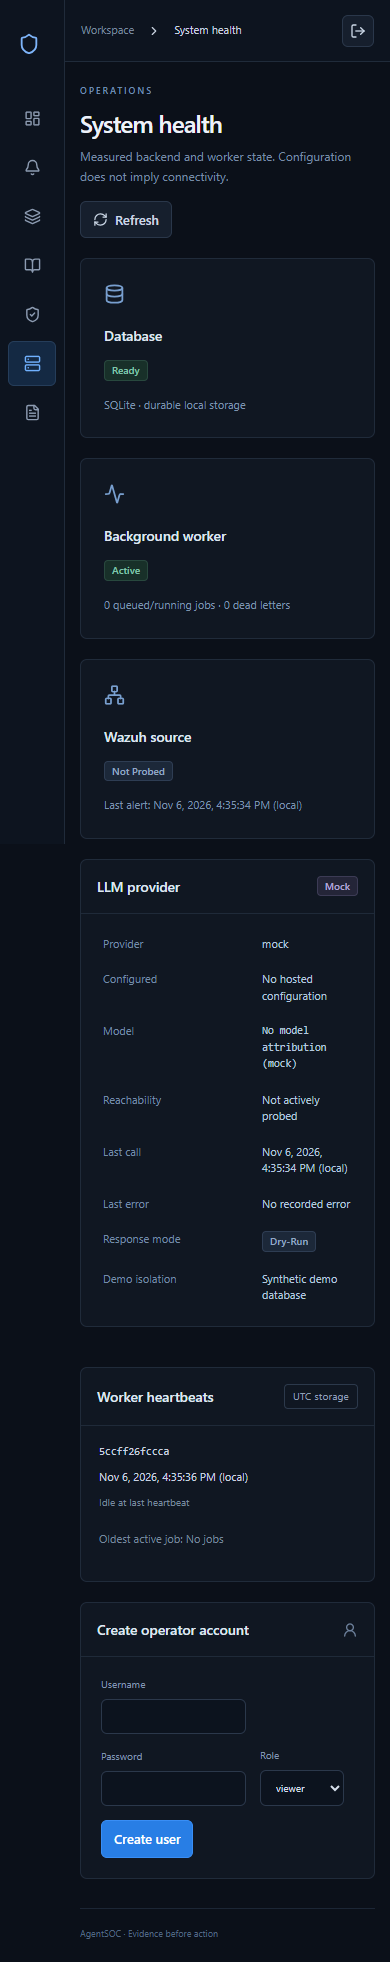
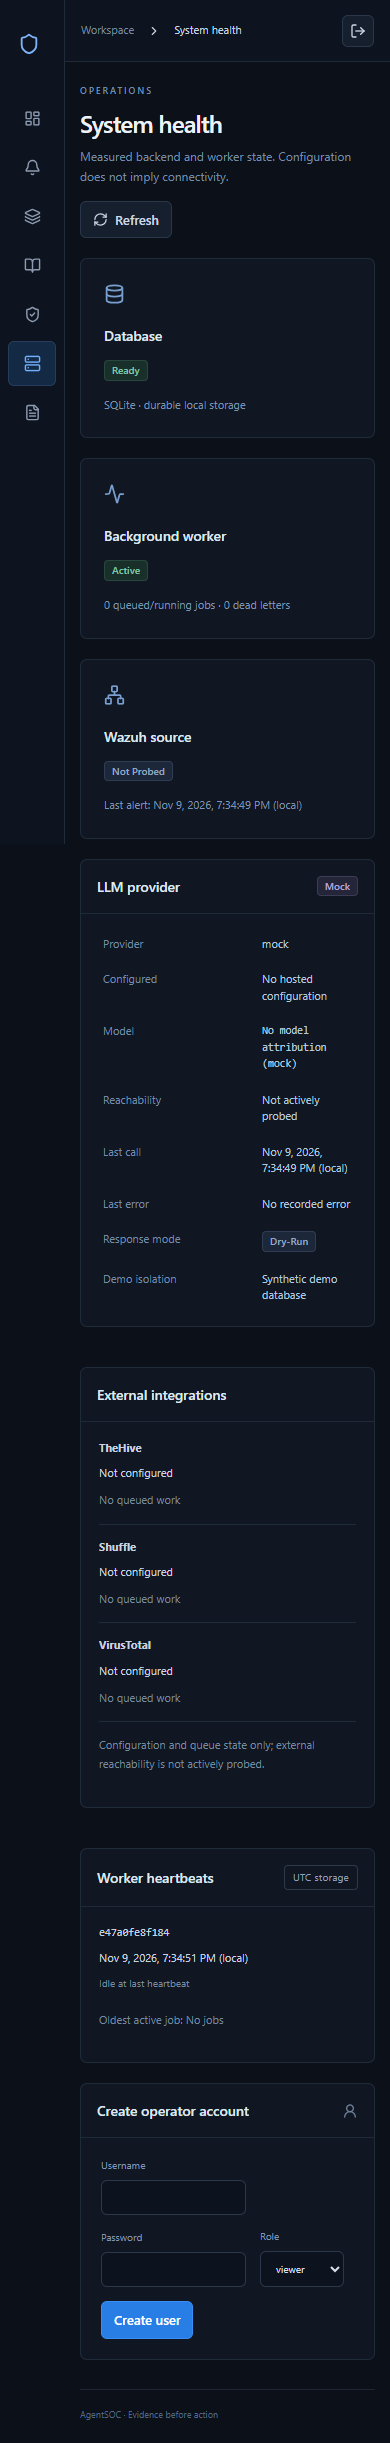
docs: refresh README with SOC workflow and console screenshots
Organize quick start, demo, integrations and validation into a readable project overview. Preserve detailed operator commands in a separate reference and update desktop, investigation and mobile screenshots from the isolated demo.

diff --git a/frontend/e2e/console.spec.ts b/frontend/e2e/console.spec.ts
@@ -53,6 +53,7 @@ test("empty state, Wazuh pipeline, ledger, analyst note and dry-run review", asy
   await expect(
     page.getByRole("heading", { name: "Case integrations", exact: true }),
   ).toBeVisible();
+  await page.screenshot({ path: "test-results/incident.png", fullPage: true });
   await page
     .getByLabel("Add operational context")
     .fill("Browser smoke verified the cited evidence.");

diff --git a/docs/OPERATIONS.md b/docs/OPERATIONS.md
@@ -1,0 +1,144 @@
+# Operations reference
+
+[README](../README.md) | [SOC integrations](integrations.vi.md) | [Upgrade and backup](UPGRADE.md)
+
+Run commands from the repository root. Keep runtime credentials in the untracked `.env`.
+
+## Local development
+
+Muốn chạy từng process khi phát triển frontend:
+
+```powershell
+.\.venv\Scripts\python.exe -m uvicorn src.api.main:app --host 127.0.0.1 --port 8000 --no-access-log
+# Terminal thứ hai:
+.\.venv\Scripts\python.exe -m src.worker
+# Terminal thứ ba, trong frontend:
+npm ci
+npm run dev
+```
+
+Vite proxy API cùng origin; không bật CORS wildcard. Production static build được FastAPI phục vụ.
+
+Console dùng CSS riêng và compiler JavaScript của Tailwind, không cần scanner native Oxide.
+Các utility Tailwind được khai báo rõ bằng `@source inline(...)` trong `frontend/src/style.css`;
+khi thêm utility mới, cập nhật danh sách này. Build sẽ báo lỗi nếu bật lại auto-scan hoặc thêm
+nguồn scan ngoài. Cách này giúp build trên Windows có Application Control mà không đổi chính
+sách bảo mật; `npm run build` vẫn là lệnh build chuẩn.
+
+## Docker
+
+Không sửa Wazuh stack đã triển khai riêng. Container API giữ cổng 8000 và `/ingest` cho integration.
+Worker dùng chung volume SQLite, không publish cổng. Frontend được multi-stage build và serve cùng API.
+
+```bash
+cp .env.example .env
+# Tạo hai key khác nhau, điền vào INGEST_KEY và APPROVE_KEY:
+python3 -c "import secrets; print(secrets.token_urlsafe(32)); print(secrets.token_urlsafe(32))"
+mkdir -p data
+sudo chown 10001:10001 data
+docker compose up -d --build --wait
+make health
+```
+
+Mặc định bind `127.0.0.1`. Chỉ đổi `BIND_IP=10.8.0.1` khi WireGuard hiện có đã hoạt động.
+Image dùng Python 3.12; host Ubuntu 22.04 không cần cài Python 3.12 nếu chỉ chạy Docker.
+Script `bash scripts/setup.sh` là tùy chọn chuẩn bị key/config/data và cần Python 3.12+ trên host;
+nó không cài hoặc chỉnh Wazuh/VPN/firewall. Không dùng `EMBEDDED_WORKER=1` cùng worker container.
+
+Demo Docker hoàn toàn riêng, volume riêng:
+
+```bash
+make demo
+make replay
+# UI demo: http://127.0.0.1:8001/console
+make demo-down
+```
+
+`make down` giữ volume/data. Đọc [nâng cấp và backup](UPGRADE.md) trước khi thay version đang có dữ liệu.
+
+## Wazuh và API
+
+Giữ `scripts/custom-agentsoc`, bearer INGEST_KEY và `POST /ingest`. Wazuh integration/rules hiện có
+ở `config/wazuh/`; việc cài chúng vào manager do operator thực hiện riêng.
+WAZUH_SOURCE_ID do server cấu hình, không tin source field do payload/model gửi.
+Wazuh level 0–15 được kiểm tra; level dưới 7 giữ contract cũ: accepted=false/below_level_7.
+Alert hợp lệ thiếu entity vẫn lưu uncorrelated, không mất dữ liệu hay gom vào unknown bucket.
+
+| Endpoint | Auth | Chức năng |
+| --- | --- | --- |
+| `/live` | Không | Liveness |
+| `/health` | Không | DB + counters tương thích |
+| `/ready` | Không | DB và worker heartbeat mới |
+| `POST /ingest` | Bearer | Raw + normalized durable ingestion |
+| `/api/v1/auth/login`, `/auth/me`, `/auth/logout` | Session | Đăng nhập/session/CSRF |
+| `/api/v1/overview`, `/system` | Viewer | Global metrics, timeline và health |
+| `/api/v1/alerts`, `/alerts/{id}` | Viewer | Filter/pagination và raw/normalized detail |
+| `/api/v1/incidents`, `/incidents/{id}` | Viewer | Workflow, evidence, runs, actions |
+| `POST /api/v1/incidents/{id}/notes`, `PATCH .../workflow` | Analyst | Audited writes |
+| `POST /api/v1/incidents/{id}/replay` | Analyst | Run mới từ parent snapshot/cutoff |
+| `/api/v1/runs/{id}`, `/ledger`, `/ledger/{id}` | Viewer | Steps, tools, outputs và usage |
+| `POST /api/v1/incidents/{id}/response` | Approver | Decision + current proposal run ID |
+| `/api/v1/audit` | Viewer | Actor/action/target/result |
+| `POST /api/v1/users` | Admin | Tạo operator |
+
+Các path viết tắt ở cùng hàng đều thuộc `/api/v1`. Xem `/docs` của API để có OpenAPI schema.
+Pagination limit tối đa 100, sort received/created + ID ổn định. Alerts hỗ trợ severity, source,
+entity, correlation status, thời gian và search; incidents có workflow/severity/source/entity/time.
+Số tổng hợp tính trên toàn bộ tập filter, không chỉ trang hiện tại. JSON hỏng trả 400, schema sai
+422, body vượt 256 KiB trả 413; errors API v1 có envelope nhất quán và không echo raw sensitive input.
+
+## Cấu hình
+
+`.env.example` không có secret thật. Hai key bắt buộc khác nhau, dài ít nhất 24 ký tự.
+
+| Nhóm | Biến |
+| --- | --- |
+| Storage/network | DB, BIND_IP, WAZUH_SOURCE_ID |
+| Identity | INGEST_KEY, APPROVE_KEY, ADMIN_USERNAME, ADMIN_PASSWORD, SESSION_COOKIE_SECURE |
+| AI | LLM_MODE=mock/live, LLM_URL, LLM_API_KEY, LLM_MODEL, MIN_CONFIDENCE |
+| Correlation | QUIET_SECONDS, GAP_SECONDS, HI_LEVEL, CAP, HOST_IPS JSON, HOST_NAMES |
+| Worker | POLL_SECONDS, EMBEDDED_WORKER=0, JOB_LEASE_SECONDS=120 |
+| Response | RESPONSE_MODE=dry-run/ssh, GATEWAY, SSH_KEY, KNOWN_HOSTS |
+| Notifications | TG_TOKEN và TG_CHAT cùng cấu hình hoặc cùng để trống |
+| Operations/demo | LOG_LEVEL, DEMO_MODE, DEMO_DB |
+| External integrations | THEHIVE_URL, THEHIVE_KEY, SHUFFLE_HOOK, VT_KEY, VT_EXCLUDE_IPS, VT_REQUEST_INTERVAL, VT_DAILY_LIMIT |
+
+Live bắt buộc HTTPS endpoint tương thích JSON chat completion, credentials/model đầy đủ. Provider
+URL chỉ lấy từ cấu hình server, không từ model/API. Không tự fallback live → mock. Ollama/local HTTP
+chưa thêm trong lần này, không tải model nặng. Thêm hostname thực vào HOST_NAMES; token hóa theo mẫu
+không cam kết loại bỏ mọi loại PII. Model max output 2048 tokens/call; input cap 256 KiB/call.
+
+## Kiểm thử và vận hành
+
+```powershell
+.\.venv\Scripts\python.exe -m pytest -q
+.\.venv\Scripts\python.exe -m ruff check src scripts tests
+.\.venv\Scripts\python.exe -m ruff format --check src scripts tests
+# Trong frontend:
+npm run typecheck
+npm run lint
+npm run build
+npm run test:e2e
+```
+
+Browser test dùng Chrome có sẵn trên Windows hoặc Playwright Chromium; Linux chạy
+`npx playwright install --with-deps chromium` trong frontend trước browser test.
+Test tạo DB riêng, đi qua HTTP thật, worker process riêng và SQLite thật, nhưng dùng mock AI/dry-run;
+không gửi Telegram, chạy SSH thật hoặc tiêu tiền cloud API. Live integration chưa được bật tự động.
+
+```bash
+make logs
+# API: data/logs/agentsoc.log; worker: data/logs/agentsoc-worker.log
+python -m scripts.check_leaks --db data/agentsoc.db
+python -m scripts.metrics --db data/agentsoc.db --ground-truth data/labels.csv
+python -m scripts.replay alerts.json --url http://127.0.0.1:8000 --speed 10
+```
+
+Replay CLI nhận JSON/JSONL, speed 0 gửi ngay, 1 thời gian thật, 10 nhanh gấp 10. Timed replay cần
+source timestamp có timezone và thứ tự tăng dần. Replay investigation trong console khác replay
+alert: tạo run mới từ evidence snapshot/cutoff, không ghi đè run cũ hay thực thi response.
+
+CSV đánh giá dùng `alert_id,label` (attack/benign), khác schema kế hoạch redteam. Precision/recall ở
+cấp alert, review tính là không dự đoán attack; pending/excluded và label thiếu inbox được đếm riêng.
+Mock bị loại mặc định. Chi phí chỉ có khi đủ usage và cung cấp cả hai đơn giá qua
+`--input-usd-per-million`, `--output-usd-per-million`; thiếu số đo trả null, không bịa 0.
